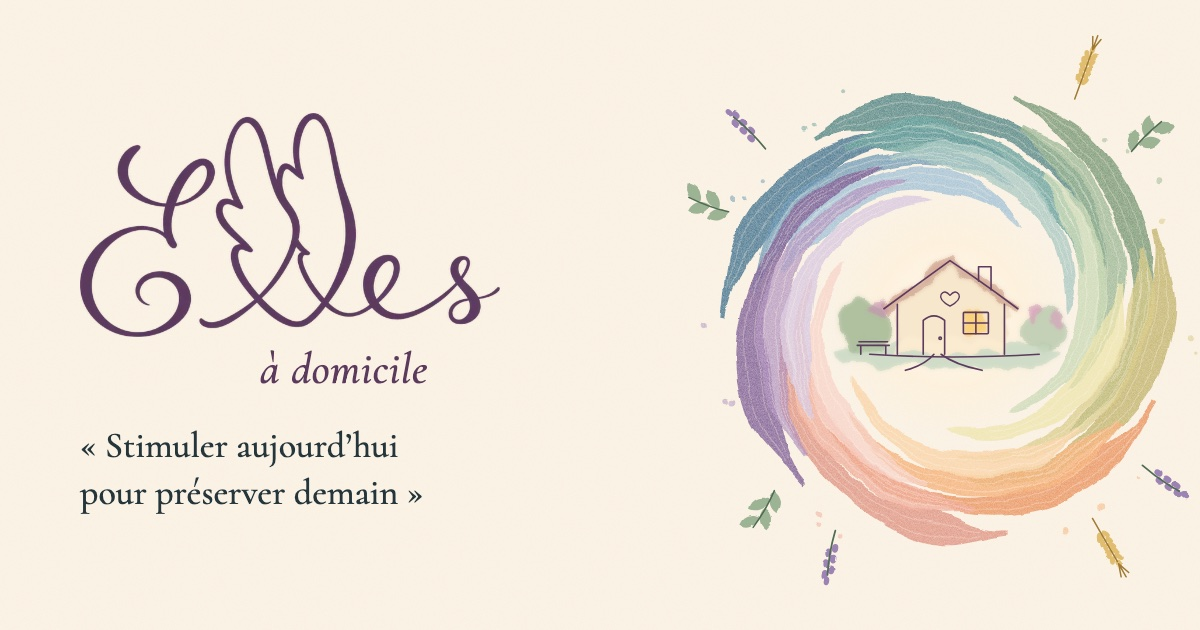
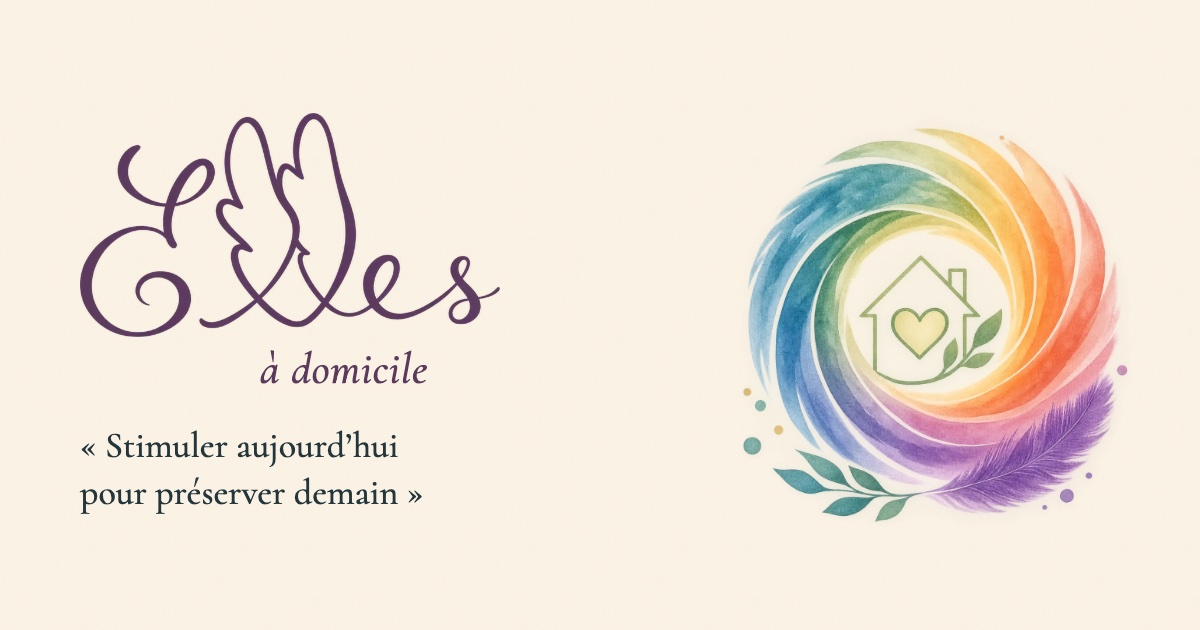
Roue à l'aquarelle Higgsfield à la place de la roue dessinée
L'illustration d'accueil est la roue choisie (Higgsfield, d'après l'image
que Léa aime), qui respire doucement ; elle sert aussi de filigrane fixe
dans la bande « Mon engagement ». Suppression de tourbillon.svg et epis.svg.

diff --git a/assets/site.css b/assets/site.css
@@ -1,6 +1,6 @@
 /* Elles à domicile — palette reprise de l'image que Léa aime (pétrole, sauge, lavande,
-   abricot sur crème), logo et maison à l'encre du flyer. Mobile d'abord ; la mise en page
-   « plein écran » commence à 64rem. */
+   abricot sur crème), logo du flyer, roue à l'aquarelle générée par Higgsfield d'après
+   cette image. Mobile d'abord ; la mise en page « plein écran » commence à 64rem. */
 
 @font-face{font-family:"Cormorant";font-weight:500;font-style:normal;font-display:swap;src:url(fonts/cormorant-latin-500-normal.woff2) format("woff2")}
 @font-face{font-family:"Cormorant";font-weight:600;font-style:normal;font-display:swap;src:url(fonts/cormorant-latin-600-normal.woff2) format("woff2")}
@@ -99,11 +99,9 @@ p:last-child{margin-bottom:0}
 .marque span{display:block;font-family:var(--serif);font-style:italic;font-weight:500;font-size:clamp(1.6rem,1.3rem + 1.4vw,2.3rem);color:var(--prune);margin-top:-.3rem;letter-spacing:.02em}
 .accroche{font-family:var(--serif);font-weight:500;font-size:clamp(1.45rem,1.2rem + 1.2vw,2.1rem);line-height:1.3;margin:1rem auto 0;max-width:34rem;text-wrap:balance}
 
-/* Le tourbillon tourne lentement ; la maison, fixe, se dessine par-dessus */
-.accueil__illu{position:relative;width:min(88vw,26rem);aspect-ratio:1;margin:0 auto}
-.tourbillon{position:absolute;inset:0;width:100%;height:100%}
-.epis{position:absolute;inset:-6%;width:112%;height:112%;max-width:none;pointer-events:none}
-.maison{position:absolute;left:50%;top:50%;width:46%;height:auto;transform:translate(-50%,-50%)}
+/* La roue à l'aquarelle (Higgsfield, d'après l'image que Léa aime) respire doucement */
+.accueil__illu{width:min(88vw,26rem);margin:0 auto}
+.roue{width:100%;height:auto}
 
 .qui{font-family:var(--serif);font-weight:600;font-size:1.6rem;color:var(--prune);margin:0}
 .qui span{display:block;font-family:var(--sans);font-weight:400;font-size:1rem;color:var(--muted)}
@@ -111,18 +109,9 @@ p:last-child{margin-bottom:0}
 .actions{display:flex;flex-wrap:wrap;justify-content:center;gap:.75rem;margin-top:1.75rem}
 
 @media (prefers-reduced-motion:no-preference){
-  .tourbillon{animation:tourne 90s linear infinite;will-change:transform}
-  .maison .trait > *{stroke-dasharray:1;stroke-dashoffset:1;animation:trace 1.6s cubic-bezier(.45,.05,.35,1) .3s forwards}
-  .maison .trait > :nth-child(2){animation-delay:.5s}
-  .maison .trait > :nth-child(3){animation-delay:.7s}
-  .maison .trait > :nth-child(n+4){animation-delay:.95s}
-  .maison .trait > :nth-child(n+8){animation-delay:1.25s}
-  .maison .couleurs{opacity:0;animation:lavis 1.4s ease-out 1.3s forwards}
-  .engagement__tourbillon{animation:tourne 140s linear infinite reverse}
+  .roue{animation:respire 7s ease-in-out infinite alternate}
 }
-@keyframes tourne{to{transform:rotate(360deg)}}
-@keyframes trace{to{stroke-dashoffset:0}}
-@keyframes lavis{to{opacity:1}}
+@keyframes respire{from{transform:scale(.97) rotate(-1.5deg)}to{transform:scale(1.02) rotate(1.5deg)}}
 
 /* ---------- Approche ---------- */
 .approche__phrase{font-family:var(--serif);font-size:clamp(1.55rem,1.3rem + 1vw,2.1rem);line-height:1.35;color:var(--ink)}
@@ -167,7 +156,7 @@ p:last-child{margin-bottom:0}
 .engagement{background:var(--petrol);color:#f6efe2;text-align:center}
 .engagement h2{font-size:1.6rem;color:var(--abricot-l);margin-bottom:1rem}
 .engagement blockquote{margin:0;font-family:var(--serif);font-style:italic;font-weight:500;font-size:clamp(1.55rem,1.3rem + 1.2vw,2.3rem);line-height:1.4}
-.bloc > .engagement__tourbillon{position:absolute;z-index:0;width:34rem;height:34rem;max-width:none;right:-12rem;top:50%;margin-top:-17rem;opacity:.22;pointer-events:none}
+.bloc > .engagement__roue{position:absolute;z-index:0;width:34rem;height:34rem;max-width:none;right:-12rem;top:50%;margin-top:-17rem;opacity:.18;pointer-events:none}
 
 /* ---------- Contact ---------- */
 .contact-grille{display:grid;gap:2.5rem}
@@ -276,7 +265,7 @@ p:last-child{margin-bottom:0}
 .texte h2{font-size:1.9rem;margin:2.5rem 0 .75rem}
 
 @media print{
-  .barre,.navigation,.actions,.formulaire,.lavis,.tourbillon,.engagement__tourbillon{display:none}
+  .barre,.navigation,.actions,.formulaire,.lavis,.engagement__roue{display:none}
   body{background:none;padding-bottom:0}
   .engagement{background:none;color:var(--ink)}
 }

diff --git a/index.html b/index.html
@@ -68,34 +68,7 @@
     </div>
 
     <div class="accueil__illu">
-      <img class="tourbillon" src="assets/img/tourbillon.svg" width="1000" height="1000" alt="">
-      <img class="epis" src="assets/img/epis.svg" width="1120" height="1120" alt="">
-      <svg class="maison" viewBox="66 36 268 140" role="img" aria-label="Maison dessinée à l’encre, avec un cœur et un banc, au centre d’un tourbillon de couleurs à l’aquarelle">
-        <g class="couleurs" filter="url(#wc)">
-          <ellipse cx="200" cy="150" rx="128" ry="16" fill="#cfdcc6" opacity=".9"/>
-          <path d="M140 150 L140 92 L200 50 L262 92 L262 150 Z" fill="#f2e3c8" opacity=".95"/>
-          <path d="M128 98 L200 44 L274 98" fill="none" stroke="#b9826c" stroke-width="10" opacity=".55"/>
-          <rect x="216" y="104" width="26" height="22" fill="#f0c66e" opacity=".9"/>
-          <circle cx="104" cy="118" r="30" fill="#9fb592" opacity=".75"/>
-          <circle cx="306" cy="122" r="24" fill="#b8c9ad" opacity=".75"/>
-          <circle cx="292" cy="104" r="9" fill="#d9a7bd" opacity=".8"/>
-          <circle cx="318" cy="110" r="7" fill="#d9a7bd" opacity=".7"/>
-          <circle cx="122" cy="96" r="8" fill="#c99ab3" opacity=".7"/>
-        </g>
-        <g class="trait" fill="none" stroke="#5c3a5e" stroke-width="1.8" stroke-linecap="round" stroke-linejoin="round" filter="url(#ink)">
-          <path pathLength="1" d="M126 99 Q160 74 200 45 Q240 72 276 99"/>
-          <path pathLength="1" d="M141 94 L141 150 M261 94 L261 150"/>
-          <path pathLength="1" d="M110 150 Q200 156 300 150"/>
-          <path pathLength="1" d="M170 150 L170 112 Q182 102 194 112 L194 150"/>
-          <rect pathLength="1" x="215" y="103" width="28" height="24" rx="1"/>
-          <path pathLength="1" d="M229 103 L229 127 M215 115 L243 115"/>
-          <path pathLength="1" d="M232 68 L232 52 L246 52 L246 78"/>
-          <path pathLength="1" d="M182 150 Q172 162 150 168 M190 150 Q206 162 236 168"/>
-          <path pathLength="1" d="M200 84 q-6 -7 -10 -1 q-3 6 10 13 q13 -7 10 -13 q-4 -6 -10 1" stroke-width="1.5"/>
-          <path pathLength="1" d="M100 150 L100 140 M128 150 L128 140 M96 140 L132 140 M98 136 L130 136"/>
-          <circle pathLength="1" cx="189" cy="132" r="1.4"/>
-        </g>
-      </svg>
+      <img class="roue" fetchpriority="high" src="assets/img/roue-1200.webp" srcset="assets/img/roue-700.webp 700w, assets/img/roue-1200.webp 1200w" sizes="(min-width: 64rem) 40rem, 88vw" width="1200" height="1200" alt="Une maison avec un cœur, au centre d’un tourbillon de couleurs à l’aquarelle, avec une plume et une branche de feuillage">
     </div>
 
     <div class="accueil__texte">
@@ -255,7 +228,7 @@
   </section>
 
   <section class="bloc engagement" aria-labelledby="t-engagement">
-    <img class="engagement__tourbillon" src="assets/img/tourbillon.svg" width="1000" height="1000" alt="">
+    <img class="engagement__roue" src="assets/img/roue-700.webp" width="700" height="700" alt="" loading="lazy" decoding="async">
     <div class="contenu">
       <h2 id="t-engagement">Mon engagement</h2>
       <blockquote>
